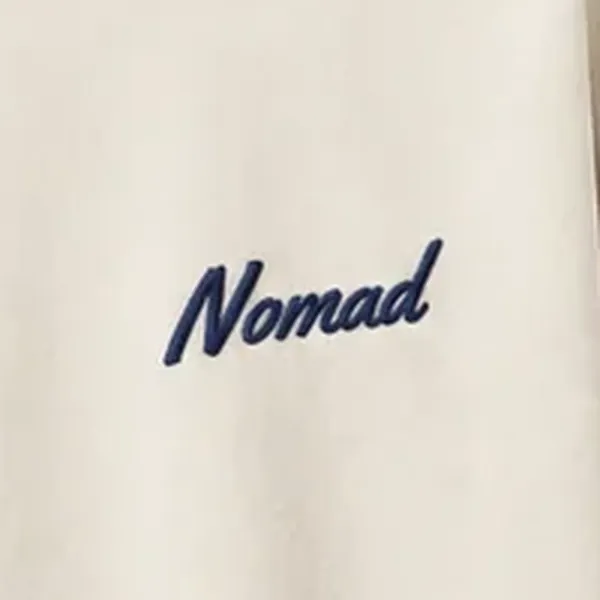
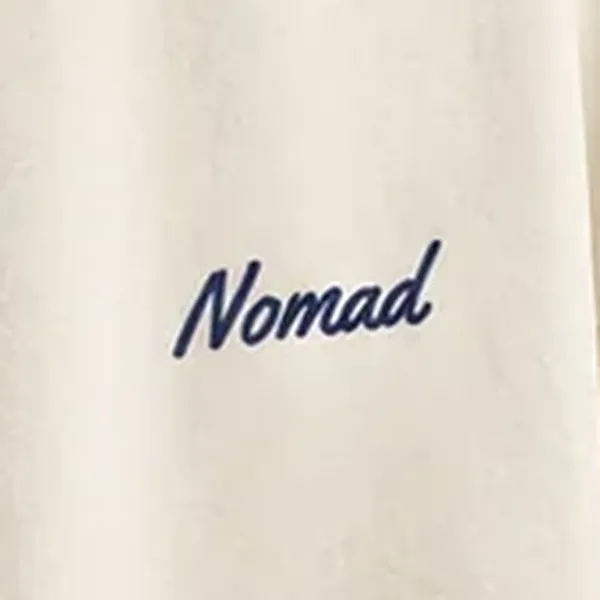
Playera 06: fotos nuevas (frente, tres cuartos y perfil) y giro por ángulos
- Las tres vistas son de la misma sesión: el giro de la 06 pasa por el
  ángulo de tres cuartos (45°) en vez de saltar de perfil a frente.
- giro_intermedios en catalogo.json → item.inBetweens: solo las prendas
  marcadas recorren sus vistas intermedias (las otras siguen igual).
- El fundido entre vistas intermedias ya no deja la prenda transparente:
  la de abajo se queda opaca y la nueva aparece encima.
- Escala de la 06 a 0.9 para medir como las otras playeras; muestra del
  bordado y cuadros para video actualizados.

Claude-Session: https://claude.ai/code/session_01MAyo22dyL4XR5G33iWNR8Q

Changed region(s): [[0.93, 0.0, 1.0, 0.99], [0.27, 0.39, 0.75, 0.63]]

diff --git a/web/app.js b/web/app.js
@@ -18,7 +18,8 @@
   const PACK_SIDE = 0.78;             // how tightly side views pack on the rail
   const PACK_FRONT = 0.8;             // same for the turned garment; it overlaps its neighbours a little
                                       // instead of shoving the whole rack along the rail
-  const USE_IN_BETWEENS = false;      // the current 60/45/25 shots don't match the front photo yet
+  const USE_IN_BETWEENS = false;      // for every garment; one whose in-between shots match its front
+                                      // and side (item.inBetweens, from catalogo.json) steps through them
   const RAIL_OVER = 56;               // rail length past the outer garments, px
   const HOVER_DELAY = 90;             // ms the cursor must rest before a garment turns
   const LEAVE_DELAY = 260;            // ms after leaving the rack before it settles back
@@ -85,7 +86,7 @@
   // ("small" on the rack, "full" in the sheet), otherwise its photos.
   function framesFor(item, size = "small") {
     const spin = item.spin;
-    if (SPIN_OFF || !spin?.ready?.[size]) return { frames: item.frames, video: false };
+    if (SPIN_OFF || !spin?.ready?.[size]) return { frames: item.frames, video: false, steps: !!item.inBetweens };
     return { frames: spin.frames.map((f) => ({ ...f, src: size === "small" ? f.small : f.src })), video: true };
   }
 
@@ -137,8 +138,8 @@
     rack.addEventListener("pointerenter", run, { once: true });
   }
 
-  function makeTurn(container, allFrames, { video = false } = {}) {
-    const frames = video ? allFrames : turnFrames(allFrames);
+  function makeTurn(container, allFrames, { video = false, steps = false } = {}) {
+    const frames = video || steps ? allFrames : turnFrames(allFrames);
     const box = document.createElement("div");
     box.className = "turn";
     const imgs = frames.map((f, k) => {
@@ -199,14 +200,15 @@
     const ratio = extent(frames[i]) / extent(frames[i + 1]);
     imgs.forEach((img, k) => {
       if (k === i) {
-        // Outgoing view stays on top and fades, easing toward the next width.
-        img.style.zIndex = "2";
-        img.style.opacity = 1 - smooth(clamp((f - 0.15) / 0.6));
+        // Outgoing view stays opaque underneath, easing toward the next width,
+        // and steps out only at the very end: the garment is never see-through.
+        img.style.zIndex = "1";
+        img.style.opacity = 1 - smooth(clamp((f - 0.8) / 0.2));
         img.style.transform = `scaleX(${lerp(1, Math.min(1 / ratio, 1.3), smooth(f))})`;
       } else if (k === i + 1) {
-        // Incoming view sits underneath, starts at the outgoing width and opens up.
-        img.style.zIndex = "1";
-        img.style.opacity = smooth(clamp(f / 0.25));
+        // Incoming view fades in on top, starting at the outgoing width and opening up.
+        img.style.zIndex = "2";
+        img.style.opacity = smooth(clamp(f / 0.7));
         img.style.transform = `scaleX(${lerp(ratio, 1, smooth(f))})`;
       } else {
         img.style.zIndex = "0";
@@ -549,8 +551,8 @@
 
   function fillDetail(item, p = 1) {
     figure.replaceChildren();
-    const { frames, video } = framesFor(item);
-    detailTurn = makeTurn(figure, frames, { video });
+    const { frames, video, steps } = framesFor(item);
+    detailTurn = makeTurn(figure, frames, { video, steps });
     detailTurn.p = p;
     renderTurn(detailTurn);
     figure.setAttribute("aria-label", `${item.name}, vista de frente`);
@@ -803,7 +805,7 @@
       slot.append(contact, lean);
       row.appendChild(slot);
 
-      const item = { ...d, slot, lean, swing, turn: makeTurn(swing, d.frames), wp: 0 };
+      const item = { ...d, slot, lean, swing, turn: makeTurn(swing, d.frames, { steps: !!d.inBetweens }), wp: 0 };
 
       slot.addEventListener("pointerenter", (e) => {
         if (e.pointerType !== "mouse" || detailIndex >= 0) return;

diff --git a/web/shop.js b/web/shop.js
@@ -522,8 +522,8 @@
       box.className = "sheet__turn";
       stage.appendChild(box);
       st.box = box;
-      const { frames, video } = N.turn.framesFor?.(current, "full") || { frames: current.frames, video: false };
-      st.turn = N.turn.make(box, frames, { video });
+      const { frames, video, steps } = N.turn.framesFor?.(current, "full") || { frames: current.frames, video: false };
+      st.turn = N.turn.make(box, frames, { video, steps });
       st.w = stage.clientWidth;
       stage.classList.add("is-turning");
       hideHint();

diff --git a/tools/fotos_web.py b/tools/fotos_web.py
@@ -42,7 +42,7 @@ SAMPLES = {
     "cerca-03-estampado": ("03-white-tee-dollar", 500, 600, 400),
     "cerca-04-estampado": ("04-black-tee-script", 500, 560, 420),
     "cerca-05-estampado": ("05-green-crewneck", 500, 640, 440),
-    "cerca-06-bordado": ("06-cream-tee-nomad", 616, 405, 200),
+    "cerca-06-bordado": ("06-cream-tee-nomad", 622, 473, 170),
     "cerca-03-cuello": ("03-white-tee-dollar", 548, 296, 190),
     "cerca-tela": ("03-white-tee-dollar", 540, 980, 200),
 }

diff --git a/tools/catalogo_web.py b/tools/catalogo_web.py
@@ -122,6 +122,9 @@ def main():
                      "model": look.get("modelo")},
             "closeup": photo(shop.get("cerca")),
             "spin": spin(item["id"], shop.get("giro")),
+            # Las vistas intermedias (60/45/25) solo entran al giro si se marcaron
+            # como de la misma sesión que el frente y el perfil.
+            "inBetweens": bool(src.get("giro_intermedios")),
         })
 
     web["site"] = {
